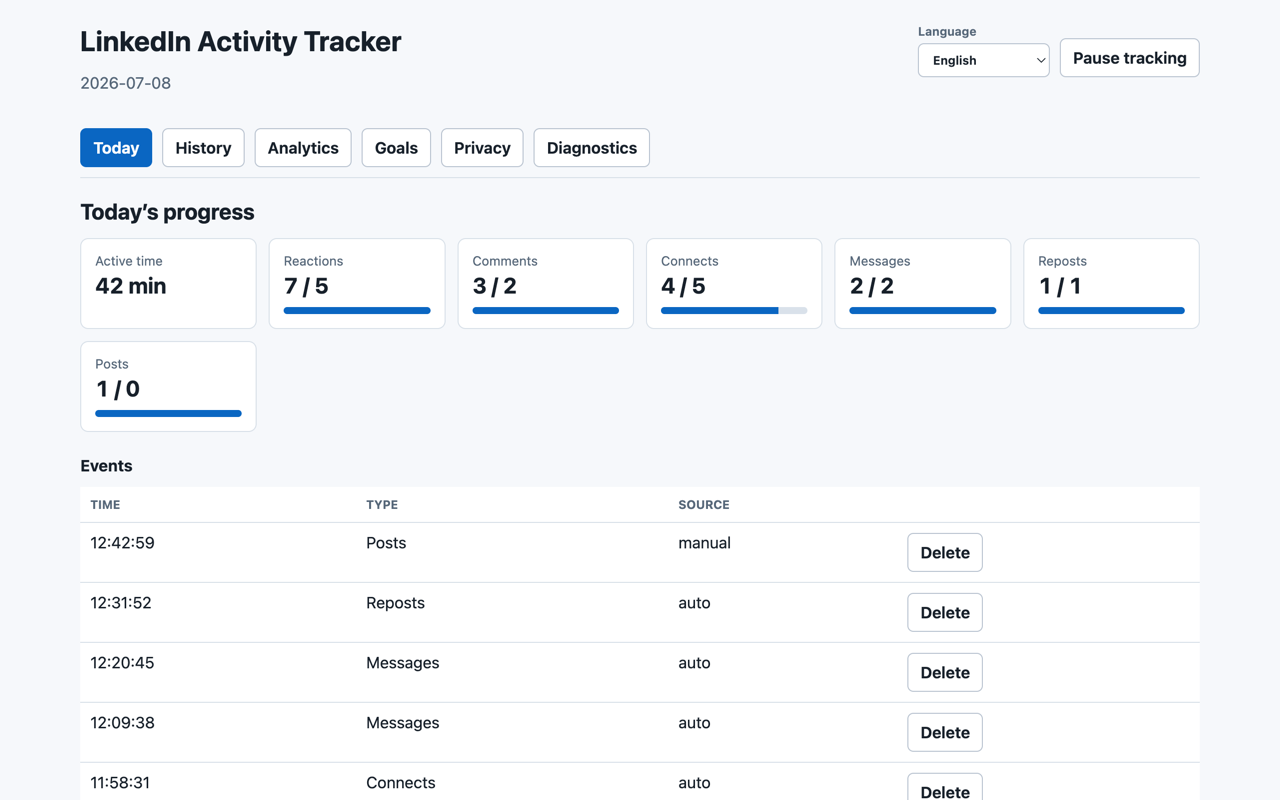
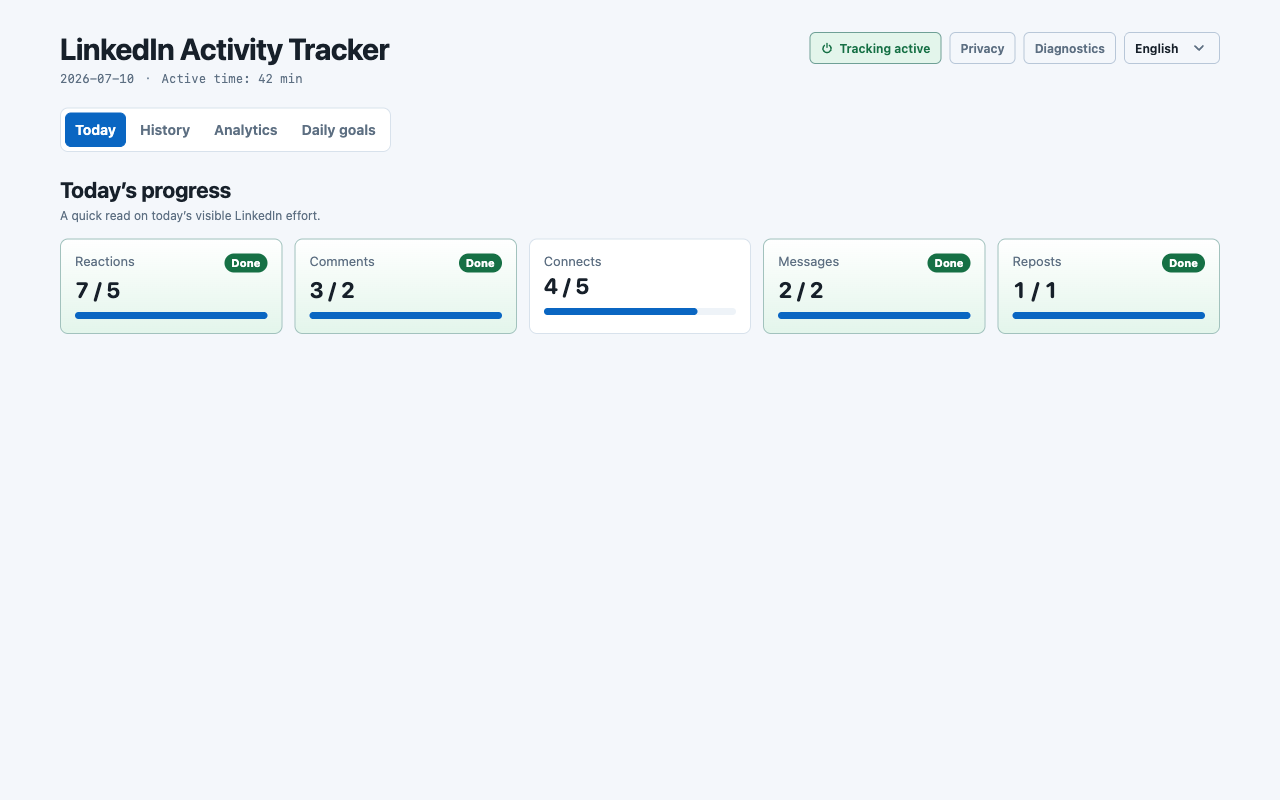
Refresh screenshots for 1.1.0 UI, add heatmap shot

diff --git a/docs/index.html b/docs/index.html
@@ -223,8 +223,12 @@
       </div>
       <div class="shots">
         <figure>
-          <img src="img/dashboard-today.png" width="1280" height="800" alt="Dashboard showing today's progress and event log" />
-          <figcaption>Today — goals &amp; event log</figcaption>
+          <img src="img/dashboard-today.png" width="1280" height="800" alt="Dashboard showing today's goal progress" />
+          <figcaption>Today — daily goals</figcaption>
+        </figure>
+        <figure>
+          <img src="img/dashboard-history.png" width="1280" height="800" alt="History tab with a year-long activity heatmap and daily records" />
+          <figcaption>History — activity heatmap</figcaption>
         </figure>
         <figure>
           <img src="img/dashboard-analytics.png" width="1280" height="800" alt="Analytics tab with SSI and LinkedIn dashboard metrics" />

diff --git a/README.md b/README.md
@@ -80,6 +80,16 @@ private content are not stored.
 - Branded in-page notifications so users know the feedback comes from the
   extension
 
+## Screenshots
+
+![Popup with today's goal progress](docs/img/popup.png)
+
+![Dashboard — today's goals](docs/img/dashboard-today.png)
+
+![Dashboard — activity heatmap and history](docs/img/dashboard-history.png)
+
+![Dashboard — SSI and LinkedIn analytics](docs/img/dashboard-analytics.png)
+
 ## Install
 
 Install the published extension from the Chrome Web Store: